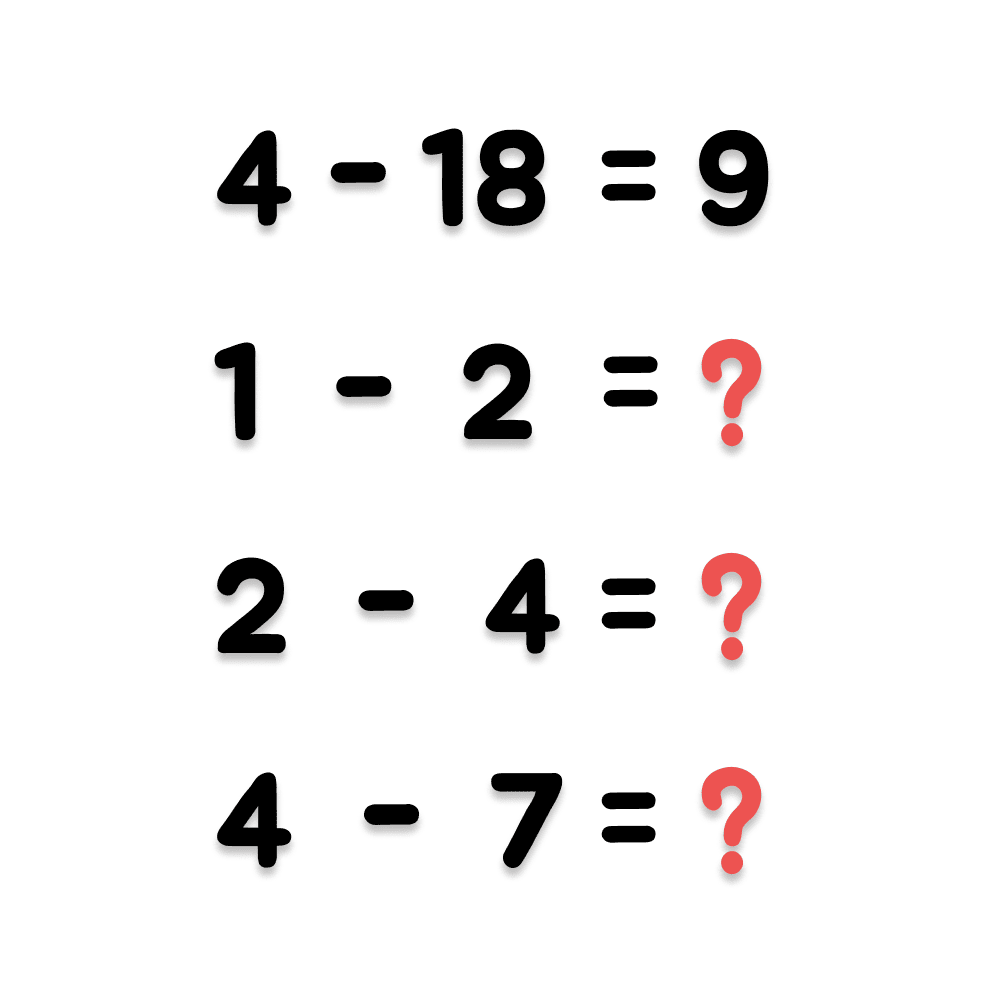
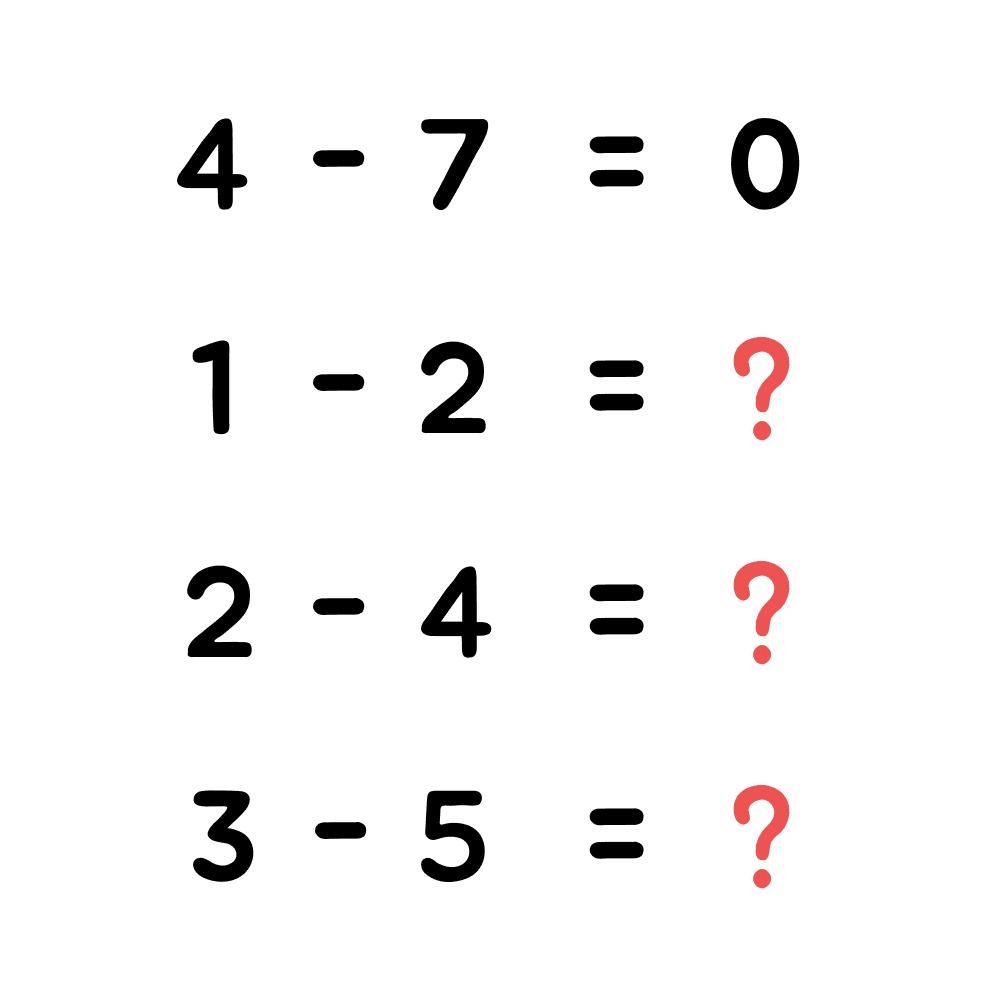
Question5, 6 수정

diff --git a/src/components/Input/InputBoard.tsx b/src/components/Input/InputBoard.tsx
@@ -55,12 +55,13 @@ function InputBoard({ question }: InputBoardProps) {
 
   return (
     <Flex px="50px" pb="100px" justifyContent="center" alignItems="center" direction="column">
-      <Flex width="100%" justifyContent="center" mb="15px" gap="10px">
+      <Flex width="100%" justifyContent="center" mb="16px" gap="12px">
         <Button
+          minW="80px"
           bg="gray.800"
           color="white"
           px="20px"
-          py="30px"
+          py="32px"
           width="65px"
           sx={{
             '&:hover': {
@@ -74,13 +75,14 @@ function InputBoard({ question }: InputBoardProps) {
             })
           }
         >
-          <Text fontSize="32px">💡</Text>
+          <Text fontSize="36px">💡</Text>
         </Button>
         <Button
+          minW="80px"
           bg="gray.800"
           color="white"
           px="20px"
-          py="30px"
+          py="32px"
           width="65px"
           sx={{
             '&:hover': {
@@ -89,7 +91,7 @@ function InputBoard({ question }: InputBoardProps) {
           }}
           onClick={() => onResetInputValue()}
         >
-          <Text fontSize="32px">↺</Text>
+          <Text fontSize="36px">↺</Text>
         </Button>
       </Flex>
       {!isInterative && answerType != 'direction' && (
@@ -129,12 +131,12 @@ function InputBoard({ question }: InputBoardProps) {
       {answerType == 'direction' ? (
         <DirectionLockButton answer={answer} isCorrect={isCorrect} setIsCorrect={setIsCorrect} />
       ) : (
-        <Flex alignItems="center" my="20px" gap="10px">
+        <Flex alignItems="center" mt="25px" mb="40px">
           <Button
-            p="30px"
+            p="28px"
             bg="gray.800"
-            width="80px"
-            height="80px"
+            width="100px"
+            height="100px"
             color="white"
             borderRadius="9999px"
             sx={{
@@ -147,7 +149,7 @@ function InputBoard({ question }: InputBoardProps) {
             }}
             onClick={() => onSubmitAnswer()}
           >
-            {isCorrect ? <Text fontSize="40px">🔓</Text> : <Text fontSize="40px">🔒</Text>}
+            {isCorrect ? <Text fontSize="50px">🔓</Text> : <Text fontSize="50px">🔒</Text>}
           </Button>
         </Flex>
       )}

diff --git a/src/lib/constant/questions.ts b/src/lib/constant/questions.ts
@@ -52,21 +52,20 @@ export const questionList: Question[] = [
     answer: '242',
     isSolved: false,
     questionDesc:
-      '카이사르 암호법\nA > B 일 경우, GDKKN => HELLO\n숫자/문자/무늬의 다양한 패턴을 파악하자\n가끔 문과적/이과적/예체능적 능력이 요구됨',
-    hint: '네번째 문장의 18번째 글자를 확인해주세요. (공백 제외)',
+      '밤이 서서히 지나가던 중\n모두가 사실을 알게 되었다\n시끄러움이 점점 몰려오고\n이 곳에서 나는 영원히 도망치기로 했다',
+    hint: '네번째 문장의 7번째 글자를 확인해주세요. (공백 제외)',
     answerType: 'Number',
     answerDesc:
-      '4 - 18 = 9에서 4는 문제의 문단의 행을 뜻하고 18은 문장의 글자 순서를 뜻합니다. \n 1 - 2는 첫번째 문장의 두번째 글자 이(2)를 의미합니다.',
+      '4 - 7 = 0에서 4는 문제의 문단의 행을 뜻하고 7은 문장의 글자 순서를 뜻합니다. \n 1 - 2는 첫번째 문장의 두번째 글자 이(2)를 의미합니다.',
   },
   {
     id: 6,
-    answer: '파노라마',
+    answer: '8409',
     isSolved: false,
-    isAnswerImage: true,
     questionDesc: '패스워드를 입력하시오',
-    hint: '패는 파를 뜻하는 것 같습니다.',
-    answerType: 'English',
-    answerDesc: '패 => 파, 스 => 노, 워 => 라, 드 => 마',
+    hint: '패는 팔(8)을 뜻하는 것 같습니다.',
+    answerType: 'Number',
+    answerDesc: '패 => 팔(8), 스 => 사(4), 워 => 영(0), 드 => 구(9)',
   },
   {
     id: 7,
@@ -232,6 +231,7 @@ export const questionList: Question[] = [
     answer: '',
     isSolved: false,
     hint: 'UP, DOWN',
+    questionDesc: '가리키는 방향대로 도착해야 한다.',
     answerType: 'English',
     answerDesc: 'R => Right (오른쪽)  D => DOWN (아래)  U => UP (위)로 각각의 방향대로 눌러서 가면 도달하면 됩니다.',
     isInterative: true,
@@ -246,7 +246,7 @@ export const questionList: Question[] = [
   },
   {
     id: 28,
-    answer: '3122',
+    answer: '3112',
     isSolved: false,
     hint: '달력을 생각해주세요.',
     answerType: 'Number',

diff --git a/src/pages/index.tsx b/src/pages/index.tsx
@@ -35,23 +35,21 @@ export default function Home() {
       >
         <Image src="/images/main/doormain.png" alt="" />
       </Box>
-      <Center
-        position="absolute"
-        bottom="10%"
-        left="50%"
-        transform="translateX(-50%)"
-        width="120px"
-        height="120px"
-        border="3px solid #FFFFFF"
-        borderRadius="50%"
-        color="#FFF"
-        cursor="pointer"
-        boxShadow="rgba(0, 0, 0, 0.25) 0px 54px 55px, rgba(0, 0, 0, 0.12) 0px -12px 30px, rgba(0, 0, 0, 0.12) 0px 4px 6px, rgba(0, 0, 0, 0.17) 0px 12px 13px, rgba(0, 0, 0, 0.09) 0px -3px 5px;"
-        {...getFontStyle(20, 700, '24px')}
-        onClick={() => router.push('/questions')}
-      >
-        <button className="start-btn">시작</button>
-      </Center>
+      <Flex mt="50px" justifyContent="center">
+        <Center
+          width="100px"
+          height="100px"
+          border="3px solid #FFFFFF"
+          borderRadius="50%"
+          color="#FFF"
+          cursor="pointer"
+          boxShadow="rgba(0, 0, 0, 0.25) 0px 54px 55px, rgba(0, 0, 0, 0.12) 0px -12px 30px, rgba(0, 0, 0, 0.12) 0px 4px 6px, rgba(0, 0, 0, 0.17) 0px 12px 13px, rgba(0, 0, 0, 0.09) 0px -3px 5px;"
+          {...getFontStyle(20, 700, '24px')}
+          onClick={() => router.push('/questions')}
+        >
+          <button className="start-btn">시작</button>
+        </Center>
+      </Flex>
     </Flex>
   )
 }

diff --git a/src/pages/questions/index.tsx b/src/pages/questions/index.tsx
@@ -27,14 +27,14 @@ function QuestionsList(props: QuestionsListProps) {
             justifyContent="center"
             alignItems="center"
             aspectRatio="1 / 1.3"
-            bg="#FFF"
+            bg="#e9ecef"
             borderRadius="10px"
             color="gray.700"
             cursor="pointer"
             boxShadow="0px 3px 5px rgba(0, 0, 0, 0.12)"
           >
-            <Center flexDirection="column" gap="16px">
-              <Text fontSize="24px">🔒</Text>
+            <Center flexDirection="column" gap="12px">
+              <Text fontSize="32px">🔒</Text>
               <Center {...getFontStyle(24, 500, '24px')}>{el.id}</Center>
             </Center>
           </GridItem>
